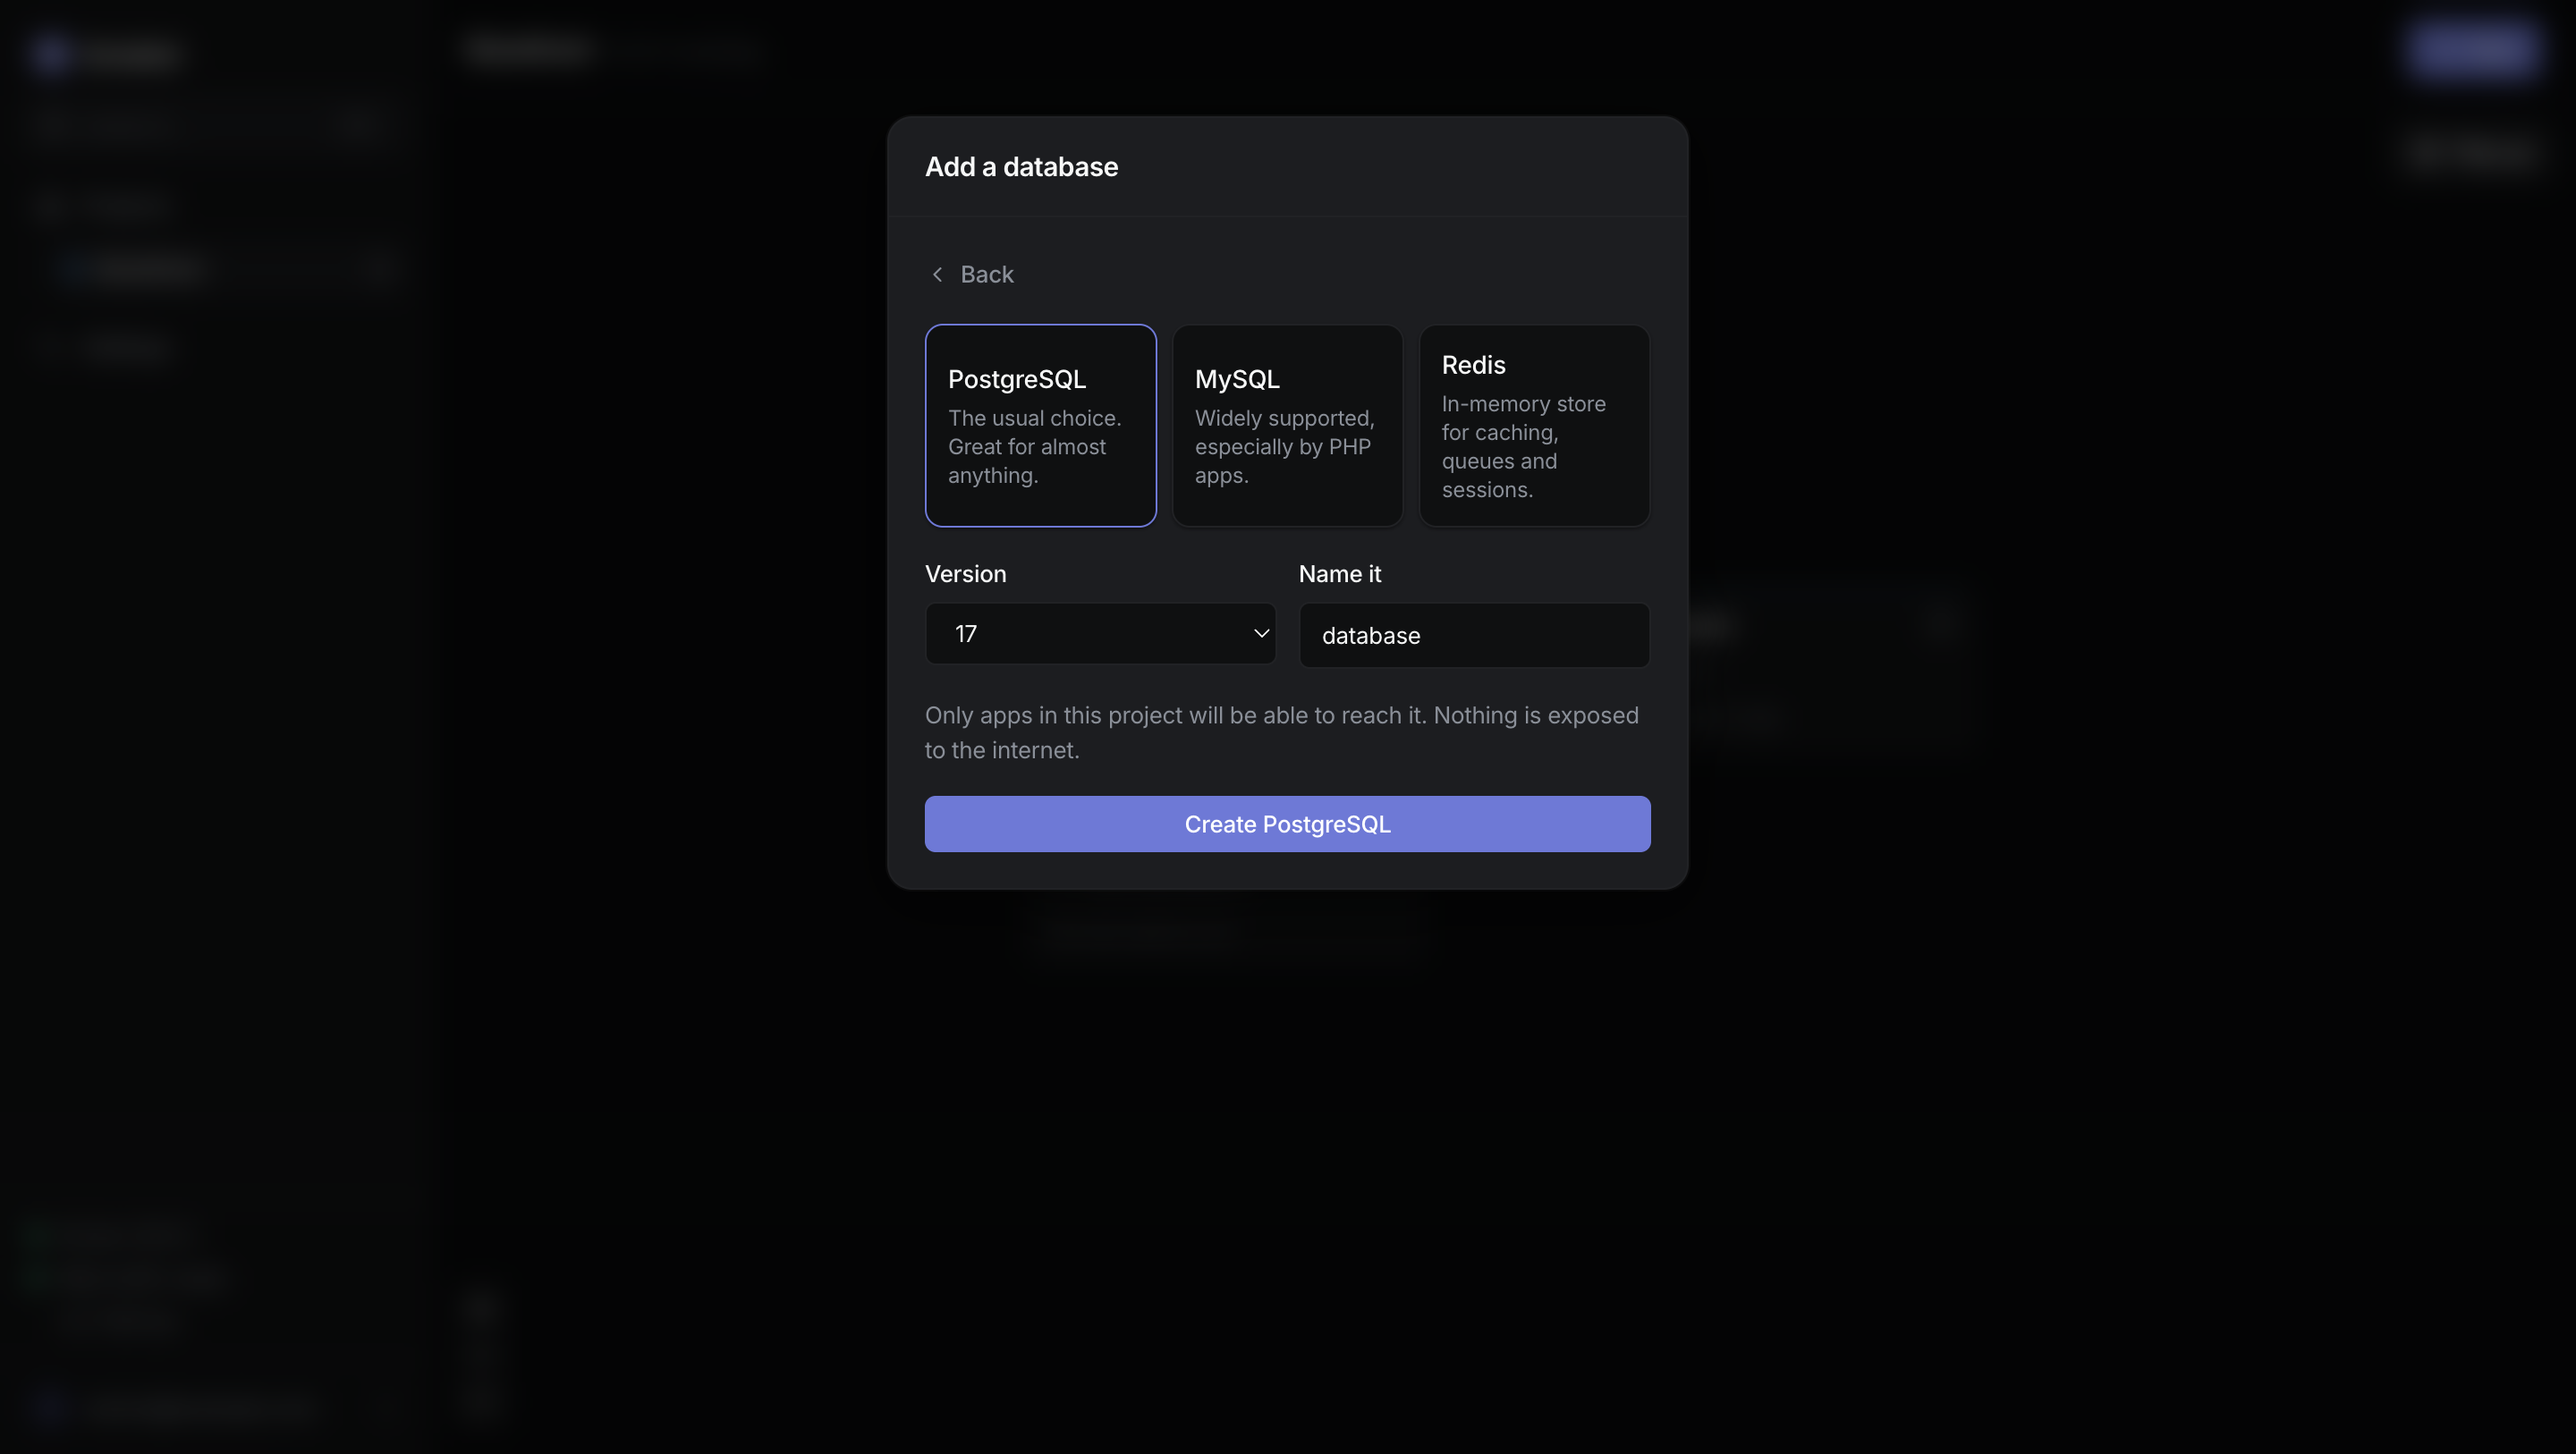
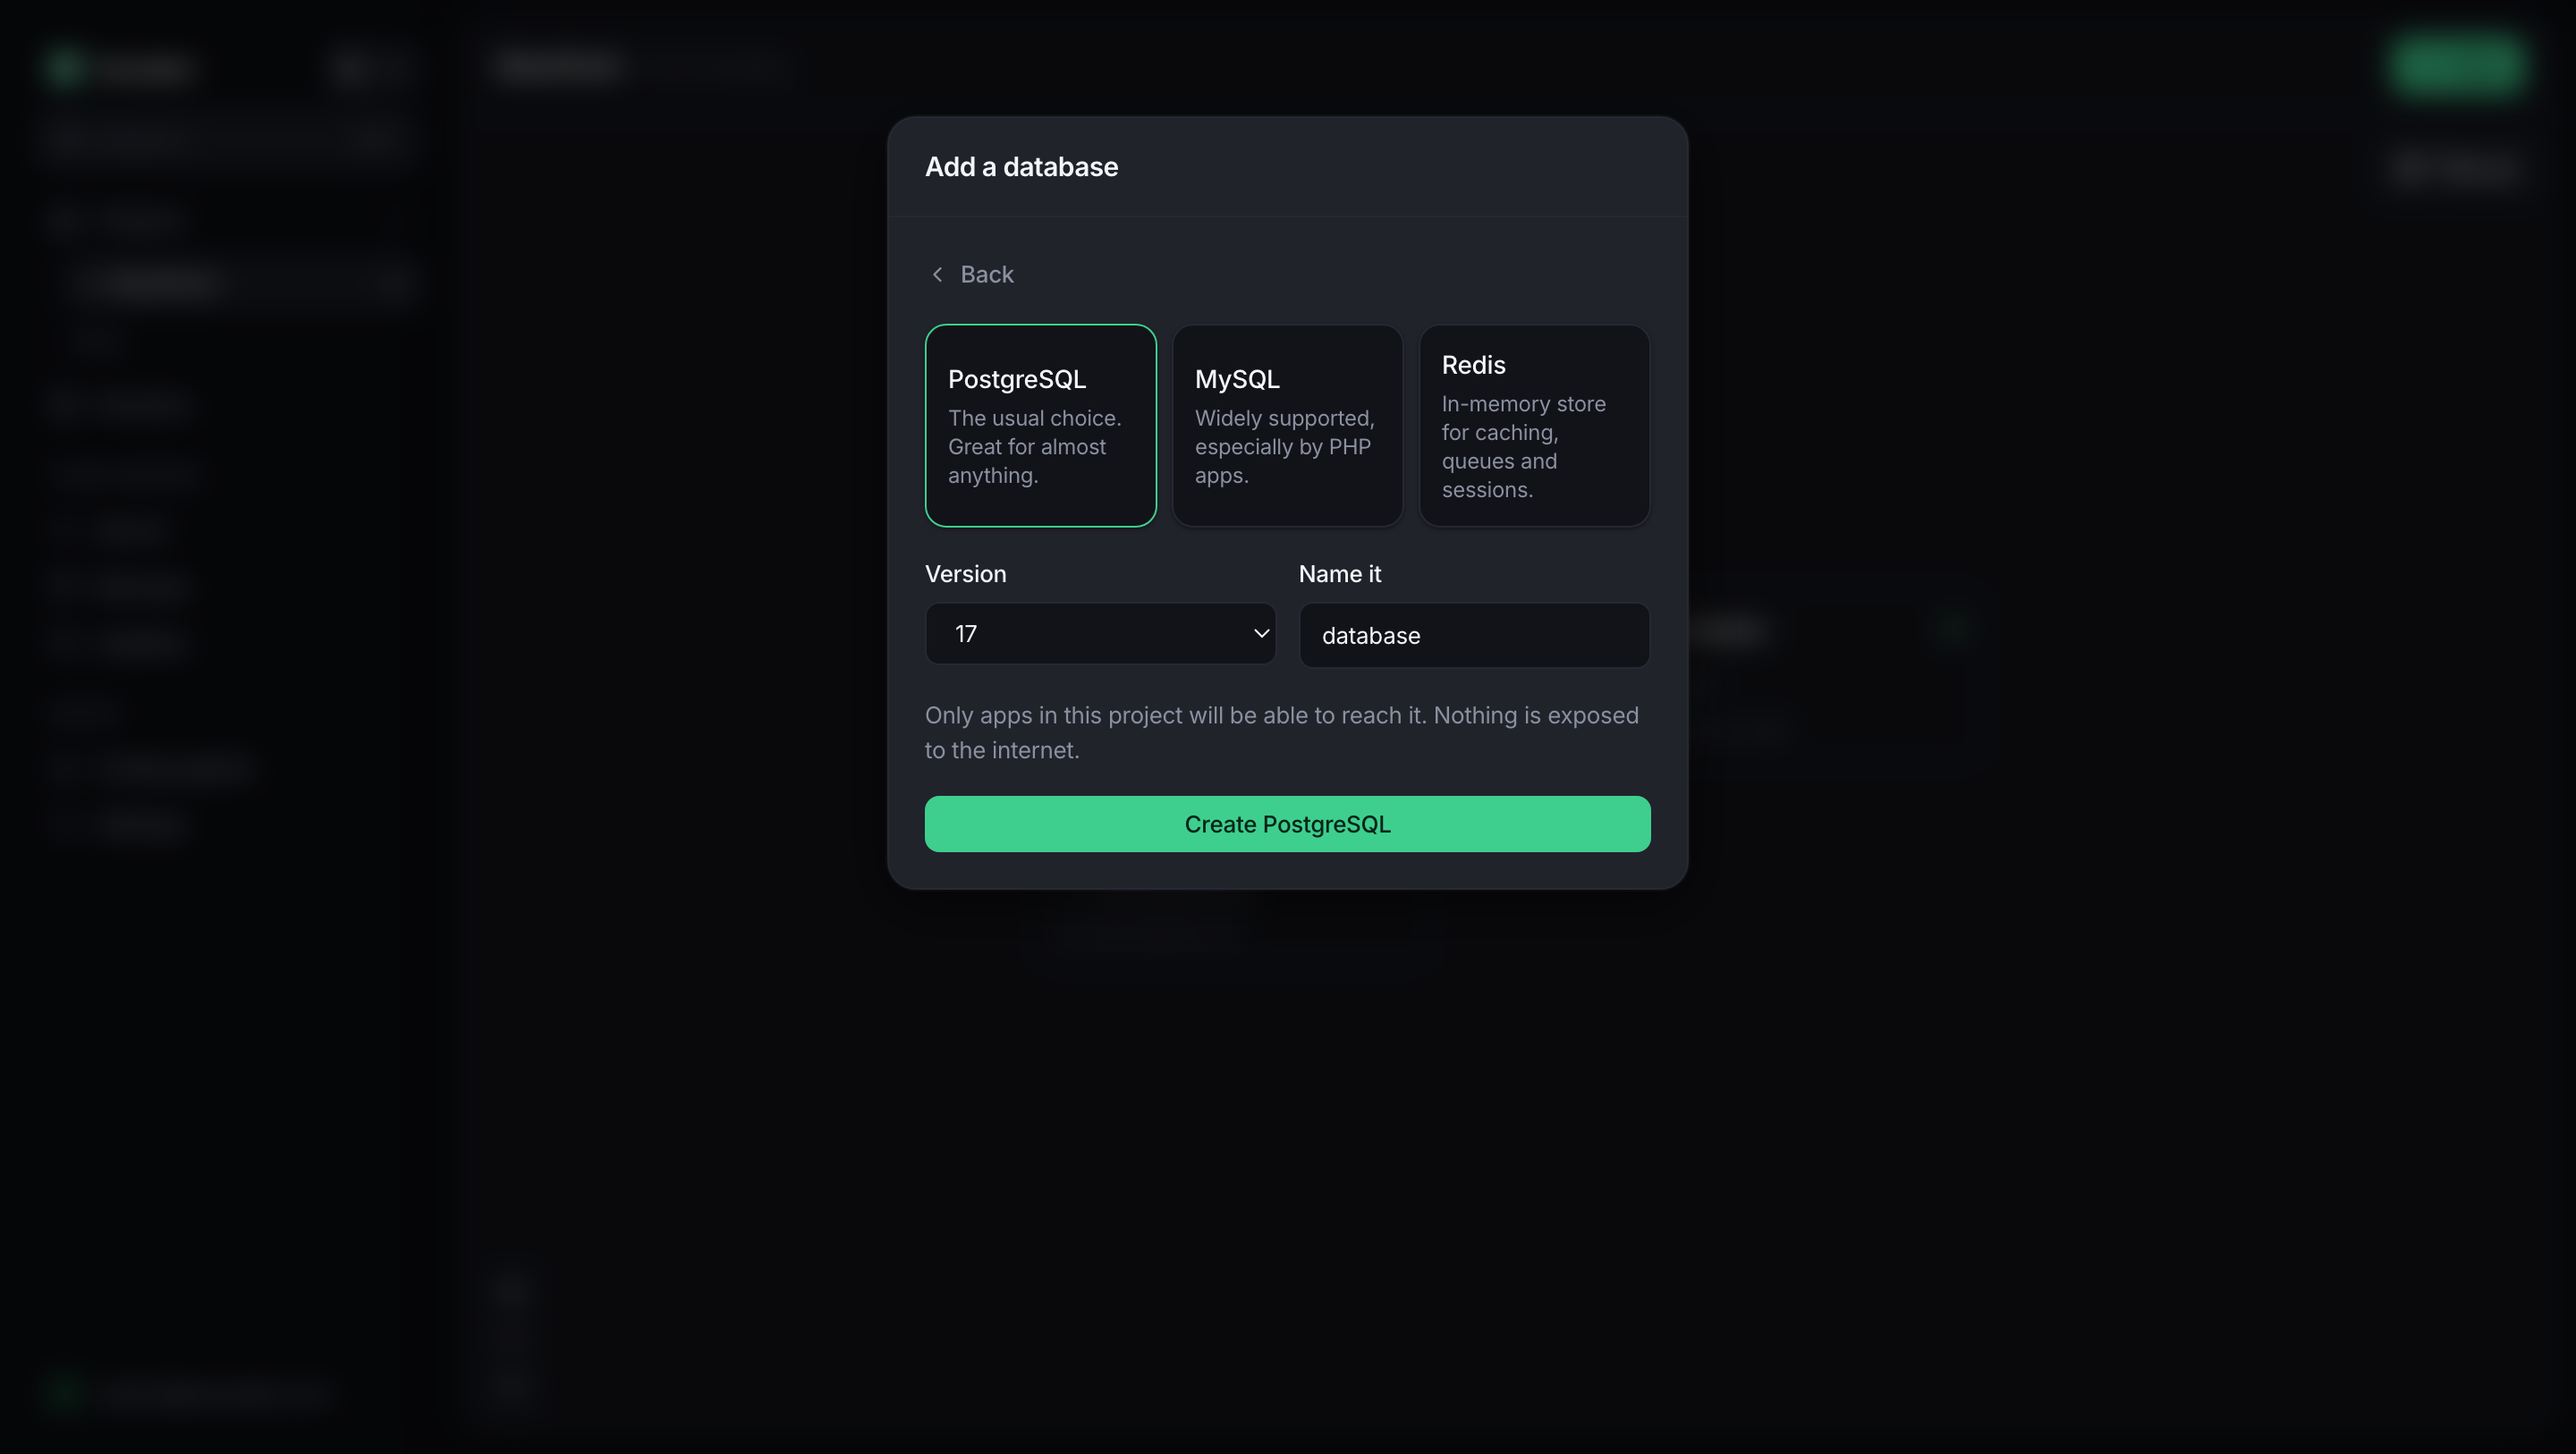
docs: retake the screenshots, and lead with the install
Every image in the README was of the old build: indigo accent, ungrouped
sidebar, no Coding agents, the old stat rows. Retaken from a running instance
at 1440x813 and deviceScaleFactor 2, so the files land at exactly 2880x1626 as
the ones they replace did. Anything else and the images change size on the page.

And the one command anybody arriving here wants was four paragraphs down, inside
the story about why the project exists. It has its own section immediately under
the hero now, with what it does to the machine said in three lines and the
caveats on one: which architectures, how long it takes, where to read about
other ways in. The story still follows, for people who want it.

Claude-Session: https://claude.ai/code/session_01XYD3XZ64VmYNQKAuyuDPDL

Changed region(s): [[0.3438, 0.5228, 0.6562, 0.5843], [0.9062, 0.0, 1.0, 0.0923], [0.0, 0.0308, 0.0312, 0.0615]]

diff --git a/README.md b/README.md
@@ -23,6 +23,23 @@ No YAML. No `docker-compose` to babysit. No Kubernetes. No monthly bill.
 
 <br>
 
+## Install it
+
+On a fresh Debian or Ubuntu server, as root:
+
+```sh
+curl -fsSL https://raw.githubusercontent.com/emilishostinger/derailed/main/install.sh | sh
+```
+
+That is the whole setup. It installs Docker if it is missing, drops a single binary at
+`/usr/local/bin/derailed`, starts it under systemd, and prints a URL. Open the URL, make
+an account, paste a repository link.
+
+<sub>64-bit Intel or ARM · nothing else to install · takes about a minute ·
+[other ways to install](docs/install.md) · [what it does to your server](docs/security.md)</sub>
+
+<br>
+
 ## The problem
 
 You have a $5 VPS and something you want to put on the internet.
@@ -32,14 +49,6 @@ weekend. Then a month later you cannot remember how any of it fits together, and
 certificate has quietly expired.
 
 Derailed makes it five minutes in a browser, and keeps making sense afterwards.
-
-```sh
-curl -fsSL https://raw.githubusercontent.com/emilishostinger/derailed/main/install.sh | sh
-```
-
-That installs Docker if it is missing, drops a single binary at
-`/usr/local/bin/derailed`, starts it under systemd, and prints a URL. Open it, make an
-account, paste a repository link. That is the whole setup.
 
 <br>
 
